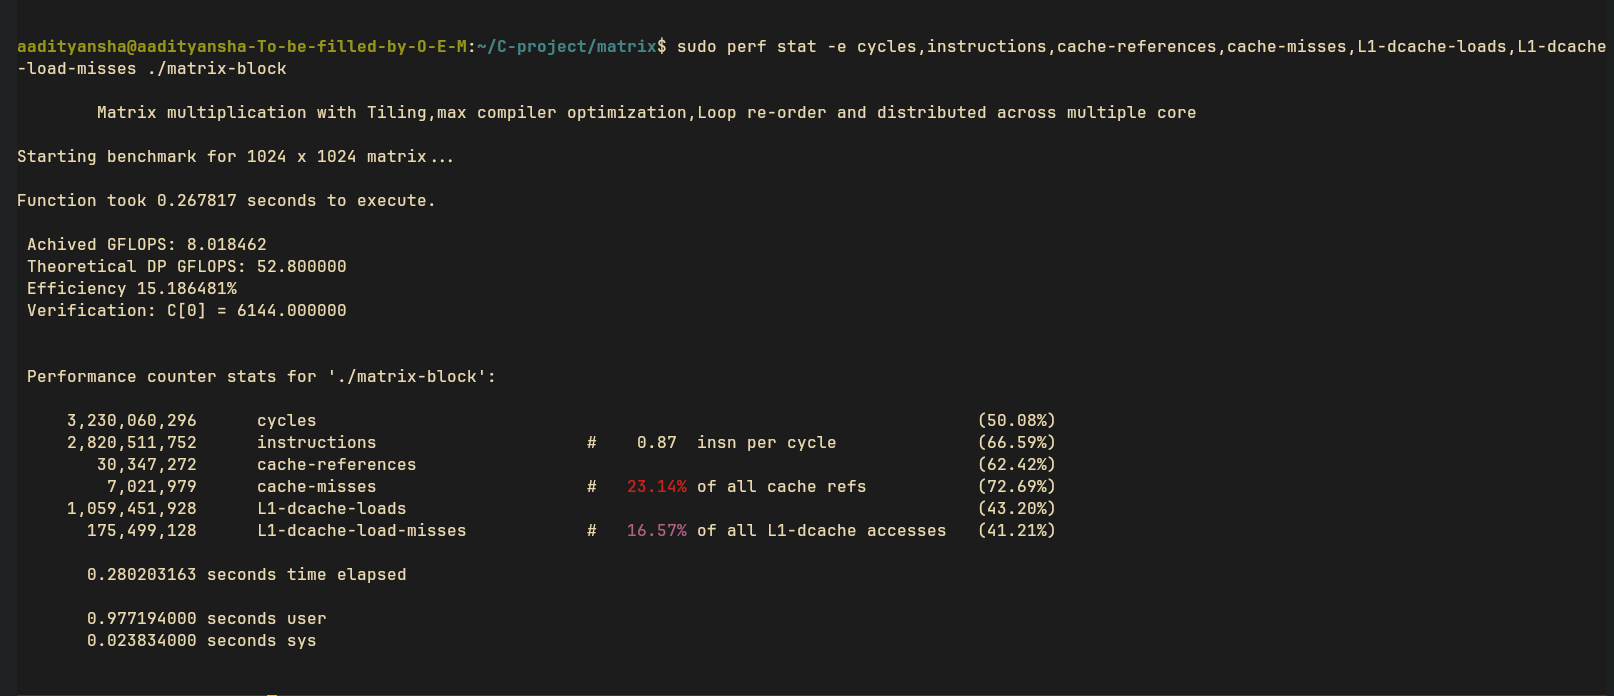
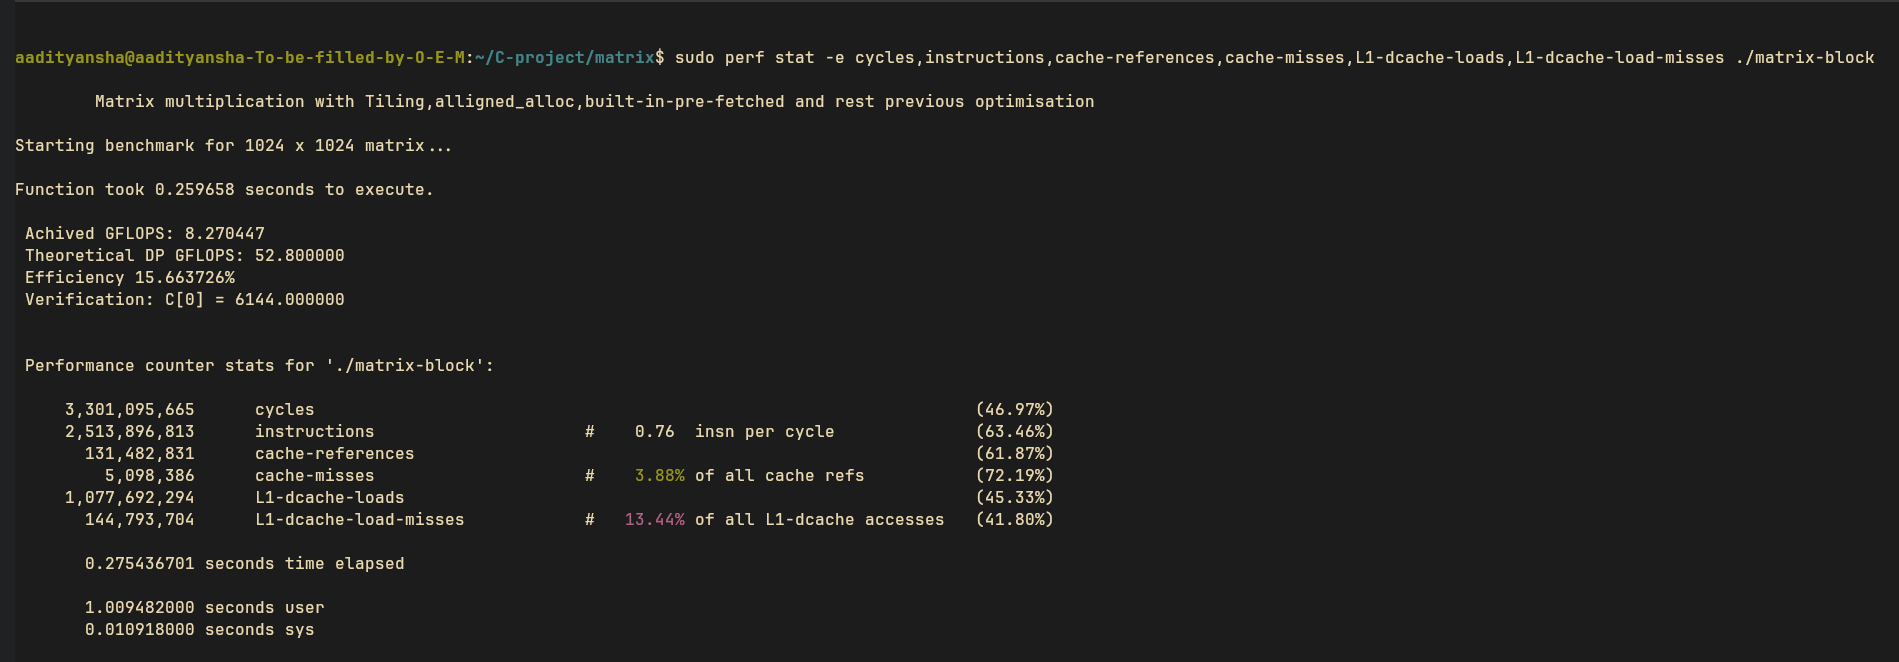
64-byte-block

diff --git a/matrix-tiling.c b/matrix-tiling.c
@@ -19,7 +19,7 @@
 #include <time.h>
 
 #define Total_SIZE 1024 * 1024
-#define BLOCK_SIZE 32
+#define BLOCK_SIZE 64
 
 void multiply(int n, const double *restrict A, const double *restrict B,
               double *restrict C) {